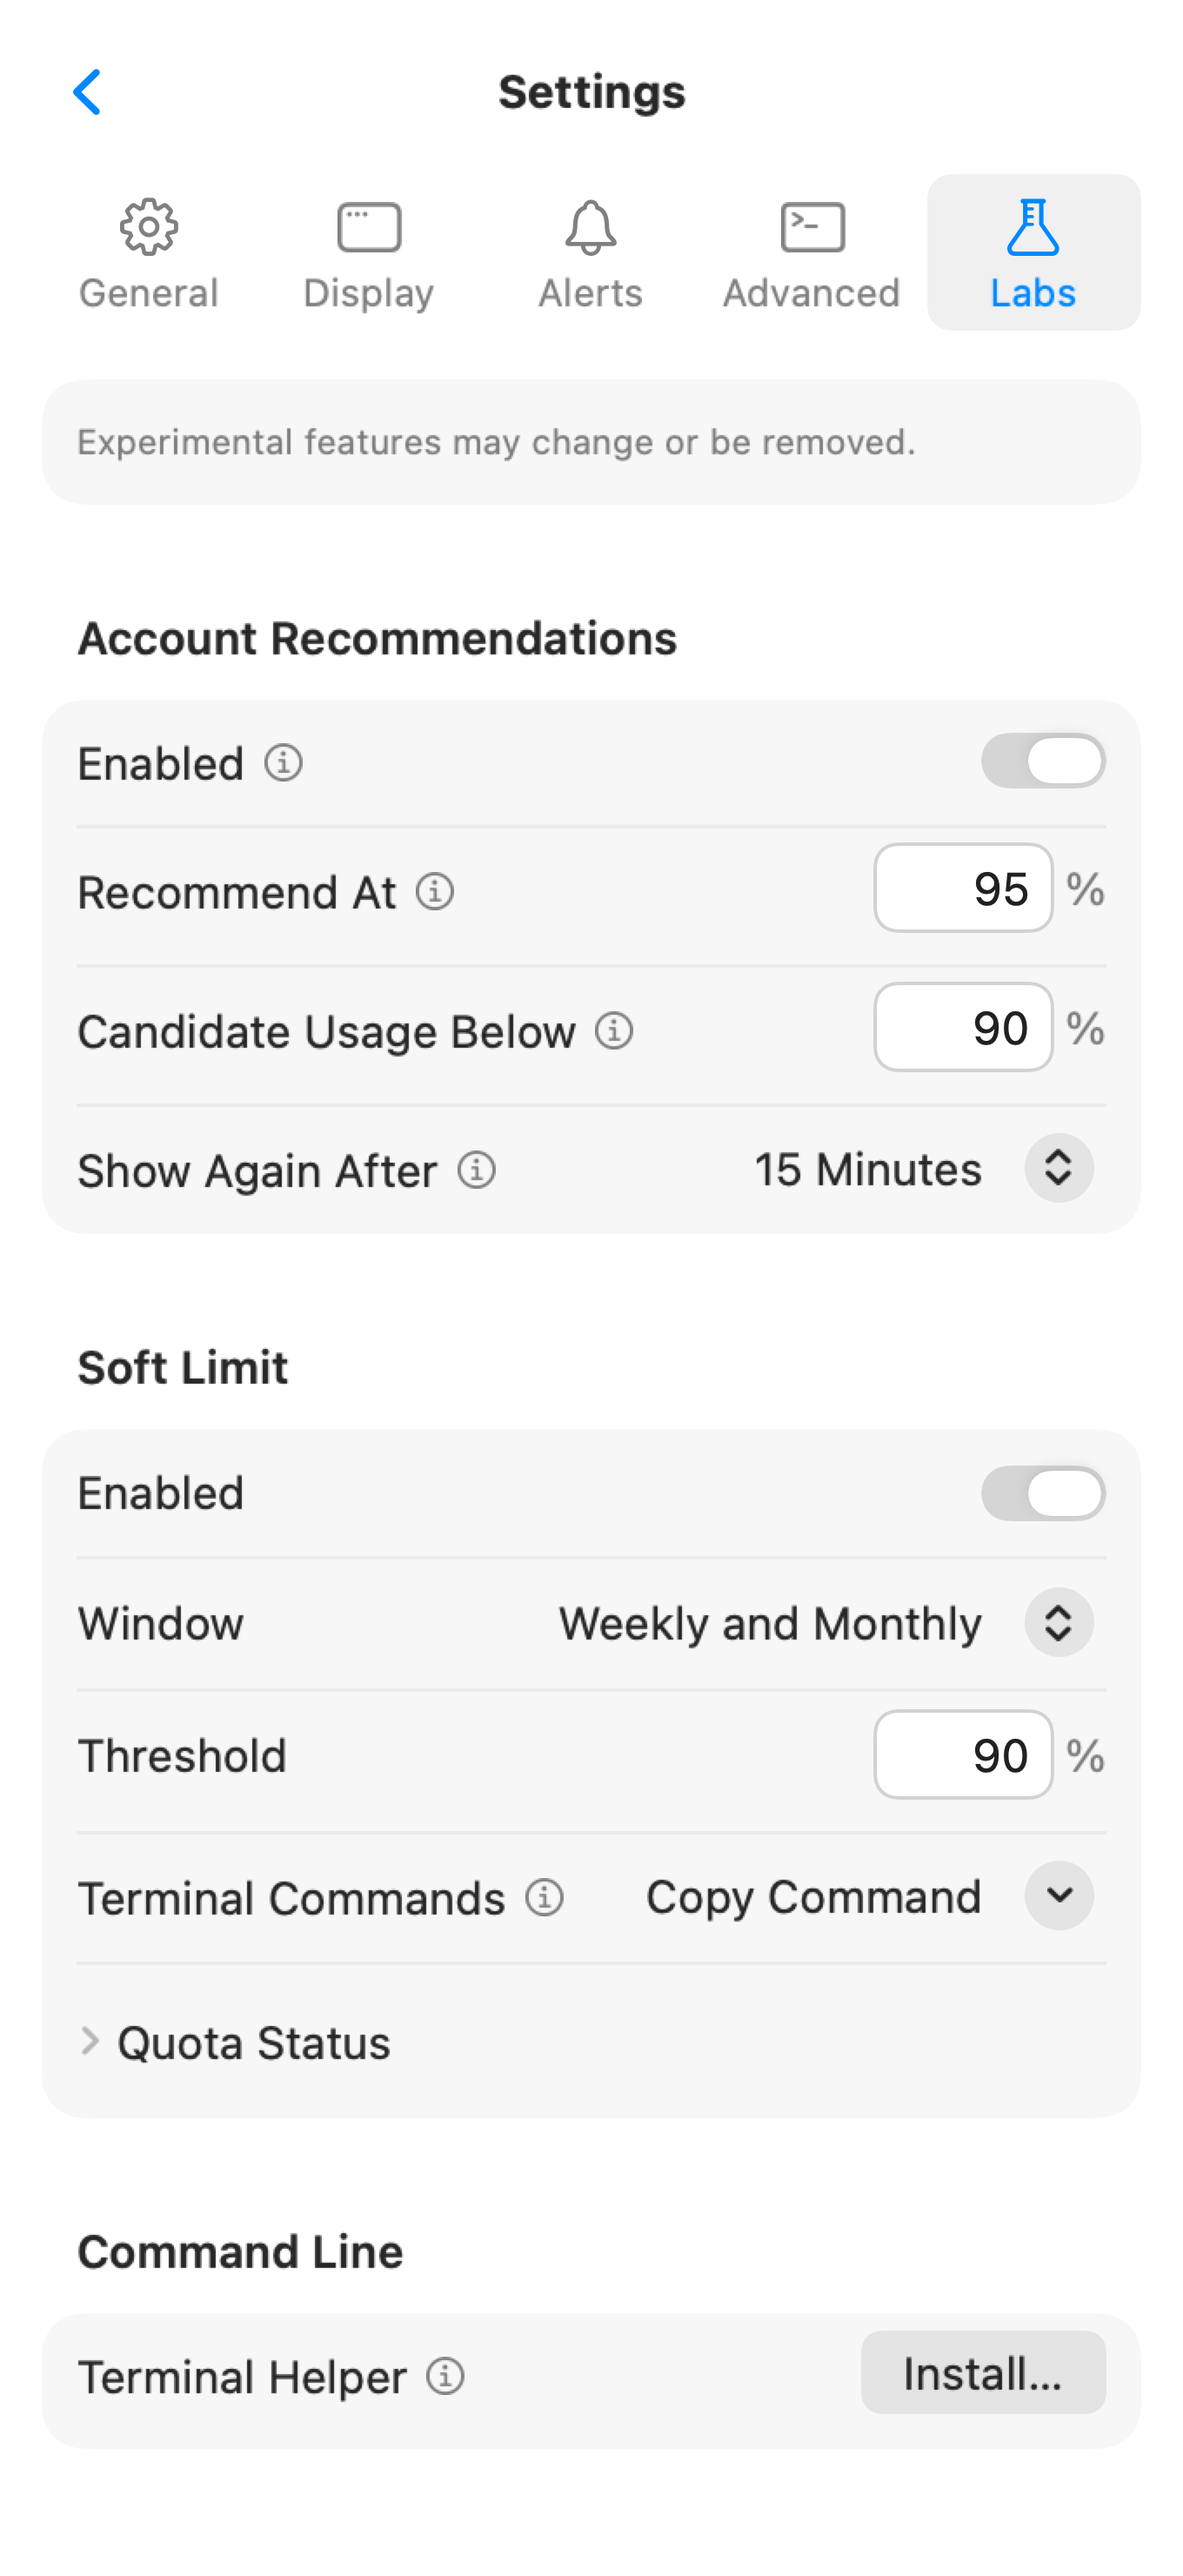
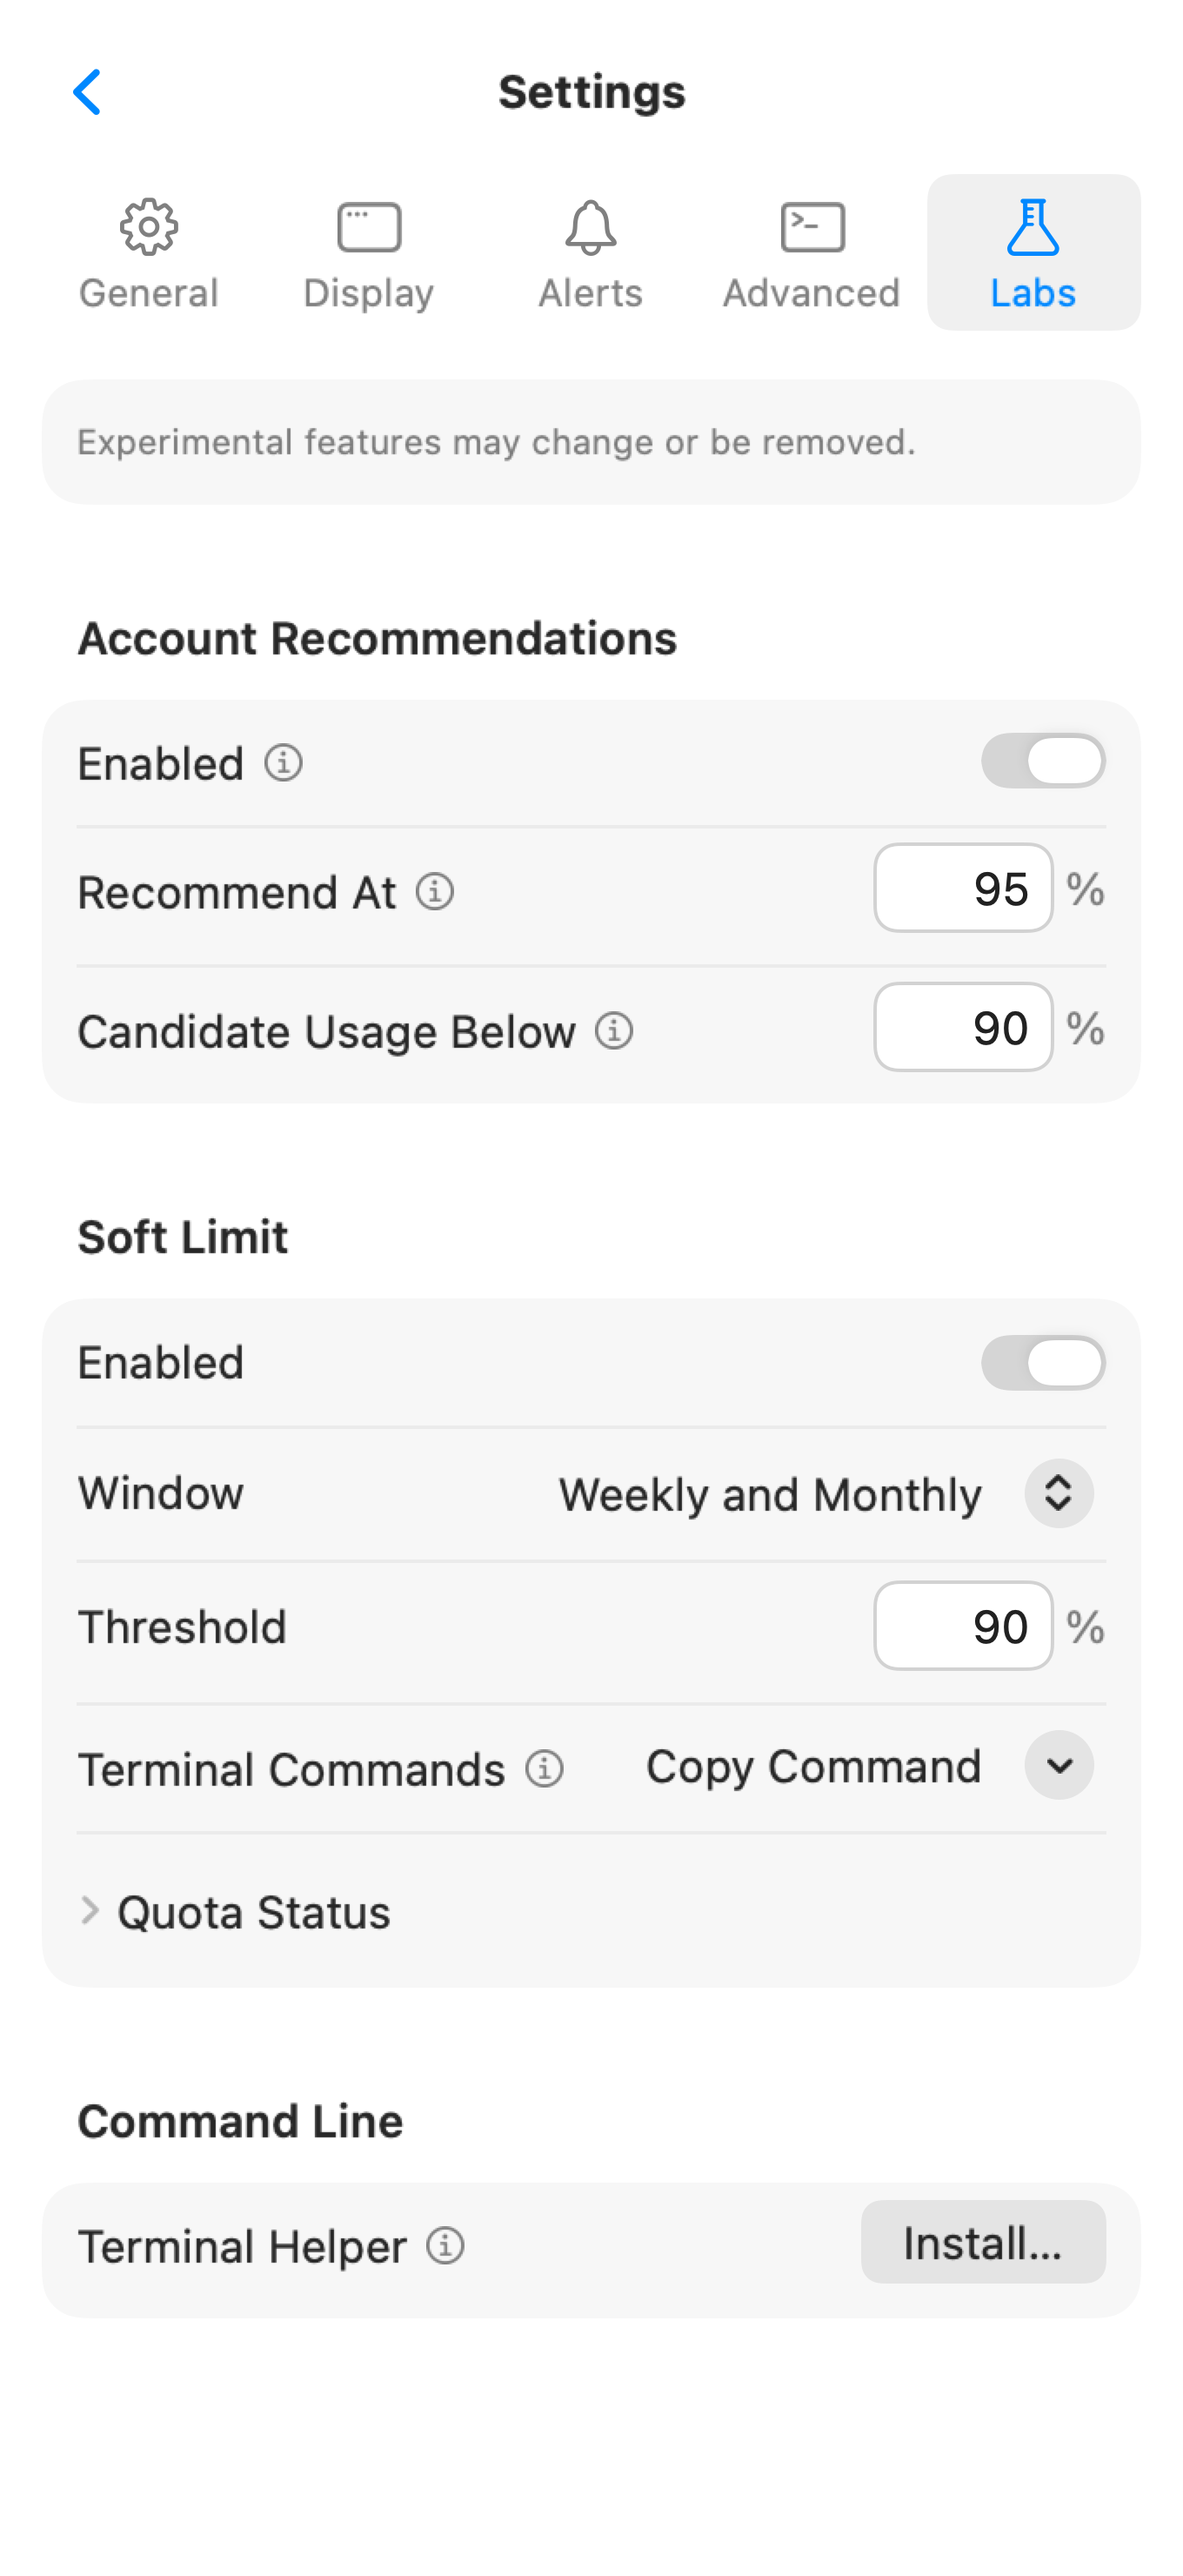
docs: define session-based account recommendation dismissal

diff --git a/docs/settings.md b/docs/settings.md
@@ -350,27 +350,33 @@ Bun은 있지만 사용 가능한 `bunx`가 없으면 재설치하지 않고 오
 
 Claude·Codex의 사용량이 설정한 기준에 도달하면 다른 계정으로 전환하도록 추천하는 기능.
 자동으로 계정을 바꾸지 않으며, 전환 전에 사용자 확인 필요.
-설정과 추천을 닫은 시각은 이 Mac에 저장.
+설정과 닫은 추천의 계정·세션 정보는 이 Mac에 저장.
 
 | 설정 | 선택지 | 동작 |
 |---|---|---|
 | 활성화 | 켜기 / 끄기 | 기본값 끄기. 켜면 현재 계정과 후보 계정의 사용량 평가. |
 | 추천 시작 사용률 | 1%–100% 정수 | 기본값 95%. 현재 계정의 기본 한도 중 하나라도 이 값 이상이면 후보 확인. |
 | 후보 사용률 제한 | 1%–100% 정수 | 기본값 90%. 후보의 적용 가능한 모든 기본 한도가 이 값 미만일 때만 추천. |
-| 추천 재표시 대기 | 1 / 5 / 15 / 30 / 60분 | 기본값 15분. ×로 추천을 닫으면 같은 프로바이더의 다음 추천까지 대기. |
 
-활성화하면 사용률 기준과 재표시 대기 설정 표시.
+활성화하면 두 사용률 기준 표시.
 사용률은 Enter를 누르거나 입력란의 포커스를 벗어나면 적용.
 잘못된 입력은 안내를 표시하고 마지막으로 저장한 값 유지.
 두 사용률 기준은 대소관계 제한 없이 각각 적용.
 후보 순위는 세션·주간 초기화가 빠른 계정 우선.
 
-재표시 대기는 다른 프로바이더에 적용하지 않음.
-화면 이동·앱 재시작 후에도 남은 대기 유지.
-대기 시간을 바꾸면 마지막으로 닫은 시각부터 새 대기 시간을 적용.
+후보의 5시간·주간 등 적용 한도가 하나라도 후보 제한 이상이면 제외.
+5시간 세션이 0%·시작 전이어도 주간 한도는 별도로 검사.
+
+A에서 B로 전환하는 추천을 **×**로 닫으면 A를 사용하는 동안 모든 추천 숨김.
+C로 전환한 뒤에도 B는 후보에서 제외하며, 다른 적격 계정은 추천 가능.
+원래 A 또는 B의 5시간 세션 초기화가 확인되면 해당 차단 해제 후 현재 조건 재평가.
+C의 세션 초기화는 A→B 차단에 영향 없음.
+초기화 시각이 없으면 다음 정상 조회에서 재확인하며, 시작 전 세션의 첫 시작은 초기화로 처리하지 않음.
+화면 이동·앱 재시작·기능 끄기와 켜기 후에도 차단 유지.
+여러 추천의 차단은 각각 관리하며 다른 프로바이더에는 적용하지 않음.
 베타 업데이트를 끄면 추천도 꺼지고, 다시 켜도 자동 활성화하지 않음.
-사용률 기준·대기 설정·마지막으로 닫은 시각은 유지하며 다시 사용하려면 실험실에서 활성화.
-승인 시 활성화 상태·사용률 기준·재표시 대기를 다시 확인.
+사용률 기준·닫은 추천의 차단은 유지하며 다시 사용하려면 실험실에서 활성화.
+승인 시 활성화 상태·사용률 기준·추천 차단 상태를 다시 확인.
 더 이상 유효하지 않은 추천은 대상 인증을 적용하기 전에 중단.
 
 추천 대상과 사용량·신원 검증은 [계정 전환 추천](/docs/dashboard.md#계정-전환-추천) 참조.

diff --git a/README.md b/README.md
@@ -69,7 +69,8 @@ Spotlight에서도 `egasu`, `openusage`, `usage`로 검색해 앱 실행 가능.
 - **[All Usage](/docs/dashboard.md#all-usage).** 등록 계정별 사용량·초기화 시각·사용 속도 표시.
   Minimal은 프로바이더별 계정 묶음, Cards는 계정별 독립 카드.
   실험실에서 Claude·Codex 계정 전환 추천을 선택해 사용.
-  추천 시작 사용률·후보 사용률 제한·추천 재표시 대기를 설정하며, 기본값은 끄기·95%·90%·15분.
+  추천 시작 사용률·후보 사용률 제한을 설정하며, 기본값은 끄기·95%·90%.
+  닫은 추천은 출발·대상 계정 중 하나의 5시간 세션 초기화까지 숨김.
   Codex 추천 승인 시 공유 로그인과 저장된 출발·대상 사용자를 다시 확인하며, 같은 워크스페이스의 다른 사용자면 전환 중단.
   Codex Business 개인 크레딧 한도는 일반 월간 한도 아래에 표시.
   개인 크레딧 행에서 전체 상한과 사용률 또는 잔여율 확인.
